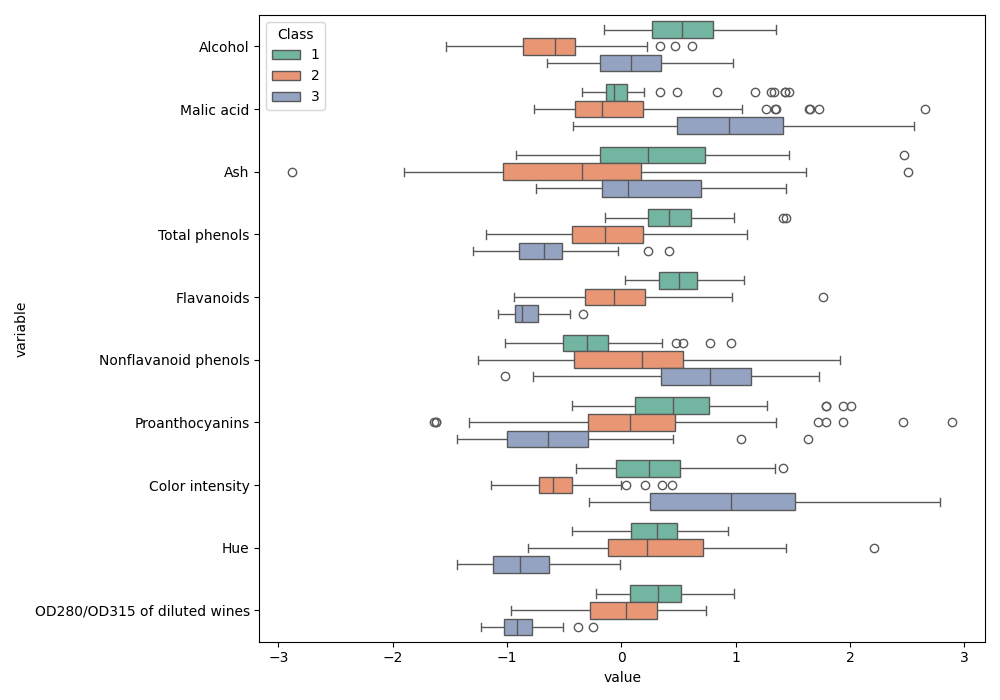
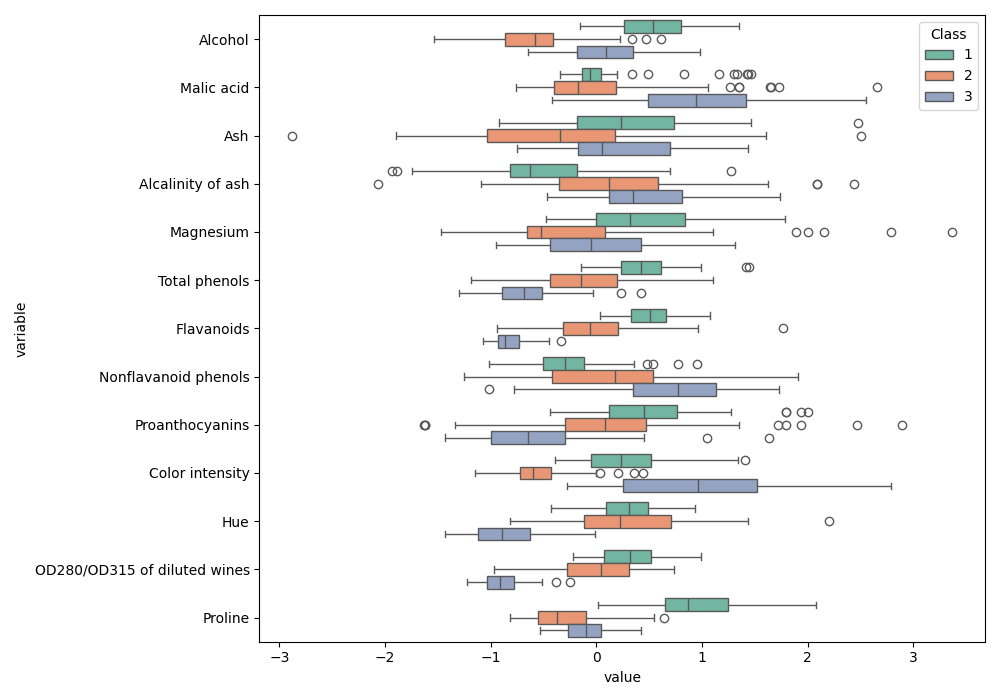
- KNeighbors -- Add --- Classification --- Accuracy

diff --git a/knn_wine/src/utils.py b/knn_wine/src/utils.py
@@ -46,9 +46,8 @@ def eda():
     print(df.info())
     
     
-    
-def eda_chart(df, suffix = "prescaled"):
-    # boxp PER FEATURES ESCLUDENDO MAGNESIO, PROLINE E ALCALINITY OF ASH
+def eda_chart_box_preprocessed(df, suffix = "prescaled"):
+# boxp PER FEATURES ESCLUDENDO MAGNESIO, PROLINE E ALCALINITY OF ASH
     df_long = df.copy().drop(["Magnesium", "Proline", "Alcalinity of ash"], axis = 1)
     df_long = df_long.melt(id_vars=["Class"])
 
@@ -58,6 +57,7 @@ def eda_chart(df, suffix = "prescaled"):
 
     plt.savefig(rf"chart\PP_boxp1_{suffix}.png")
     plt.close()
+
 
     # boxp PER FEATURES MAGNESIO, PROLINE E ALCALINITY OF ASH
     df_long = df.copy()[["Class", "Magnesium", "Proline", "Alcalinity of ash"]]
@@ -69,31 +69,37 @@ def eda_chart(df, suffix = "prescaled"):
 
     plt.savefig(rf"chart\PP_boxp2_{suffix}.png")
     plt.close()
-
-    # pairp
+    
+    
+def eda_chart_heat_pair(df):   
+    # PAIRPLOT
     sns.pairplot(df, hue="Class", diag_kind="kde", palette="Set2")
-    plt.savefig(rf"chart\PP_pairp_{suffix}.png")
+    plt.savefig(rf"chart\PP_pairp.png")
     plt.close()
     
-    # heatm
-        # Calcoliamo la matrice di correlazione
-    corr_matrix = df.drop(columns=["Class"]).corr()
-
-    # Calcoliamo la matrice di correlazione
-    corr_matrix = df.drop(columns=["Class"]).corr()
-
-    # Creiamo una maschera per nascondere la parte superiore della matrice
-    mask = np.triu(np.ones_like(corr_matrix, dtype=bool))
-
-    # Creiamo la heatm senza la parte superiore
+    # HEATMAP        
+    corr_matrix = df.drop(columns=["Class"]).corr()             # Matrice di correlazione    
+    mask = np.triu(np.ones_like(corr_matrix, dtype=bool))       # Maschera per nascondere la parte superiore della matrice
+    
     plt.figure(figsize=(10, 8))
     sns.heatmap(corr_matrix, mask=mask, annot=True, cmap="coolwarm", fmt=".2f", 
                 linewidths=0.5, vmin=-1, vmax=1, cbar_kws={"shrink": 0.8})
-
     plt.title("heatm delle Correlazioni tra le Feature (Senza Ridondanze)")
-
-    plt.savefig(rf"chart\PP_heatm_{suffix}.png")
+    plt.savefig(rf"chart\PP_heatm_.png")
     plt.close()
+    
+    
+def eda_chart_box_scaled(df, suffix = "StandardScaled"):    
+    df_long = df.copy()
+    df_long = df_long.melt(id_vars=["Class"])
+    
+    fig, ax = plt.subplots(figsize=(10, 7))
+    ax = sns.boxplot(data = df_long, x = "value", y = "variable", orient="h", hue = "Class", palette="Set2")
+    plt.tight_layout()
+
+    plt.savefig(rf"chart\PP_boxp1_{suffix}.png")
+    plt.close()
+    
 
 
 
@@ -109,10 +115,11 @@ def pca_plot(df, suffix = "prescaled"):
     df_pca["Class"] = df["Class"]
     
     print(pca.explained_variance_ratio_.cumsum())
+    explained_var = pca.explained_variance_ratio_.cumsum()
     
     # Scatterplot delle due componenti principali
     plt.figure(figsize=(8, 6))
     sns.scatterplot(data=df_pca, x="PC1", y="PC2", hue="Class", palette="Set2")
-    plt.title(f"PCA: Proiezione delle prime due componenti principali {pca.explained_variance_ratio_.cumsum()}")
+    plt.title(f"PCA: Proiezione delle prime due componenti principali [{explained_var[0]:.6f} {explained_var[1]:.6f}]")
     plt.savefig(rf"chart\pca_{suffix}.png")
     plt.close()
